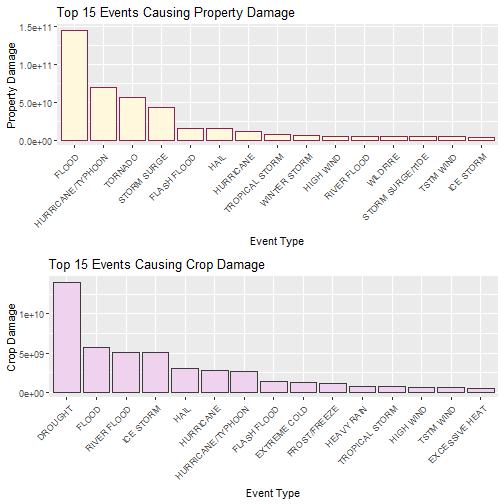
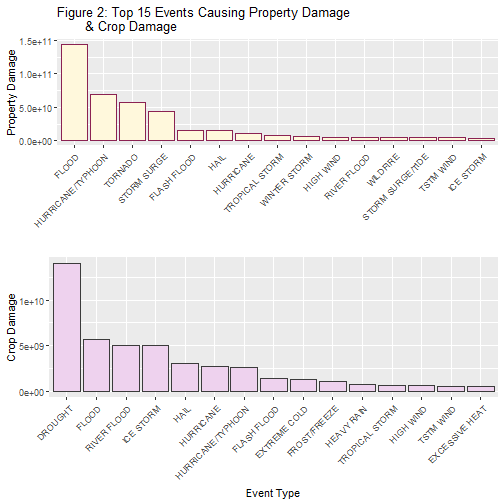
Add files via upload

diff --git a/Project 2/stormData.html b/Project 2/stormData.html
@@ -600,31 +600,23 @@ library(dplyr)
 ##     intersect, setdiff, setequal, union
 </code></pre>
 
-<pre><code class="r">plot(eventsPerYear,type=&quot;l&quot;,
-     main=&quot;Fig. 1: Total Events (per year)&quot;,
-     xlab=&quot;Year&quot;,
-     ylab=&quot;Events&quot;,
-     col=&quot;darkgreen&quot;)
-</code></pre>
-
[1 lines of base64/hex data omitted]
-
 <pre><code class="r">injuriesPlot &lt;- ggplot(data=injuries,aes(x=reorder(EVTYPE,-INJURIES),y=injuries$INJURIES)) + 
   geom_bar(stat=&quot;identity&quot;,fill=&quot;lightblue&quot;,color=&quot;darkblue&quot;) + 
   theme(axis.text.x=element_text(angle=45,hjust=1)) + 
-  labs(title=&quot;Top 15 Events Causing Injuries&quot;,y=&quot;Injuries&quot;,x=&quot;Event Type&quot;)
+  labs(title=&quot;Figure 1: Top 15 Events Causing Injuries 
+       &amp; Fatalities&quot;,y=&quot;Injuries&quot;,x=&quot; &quot;)
 </code></pre>
 
 <pre><code class="r">fatalitiesPlot &lt;- ggplot(data=fatalities,aes(x=reorder(EVTYPE, -FATALITIES),y=fatalities$FATALITIES)) + 
   geom_bar(stat=&quot;identity&quot;,fill=&quot;lightgreen&quot;,color=&quot;darkgreen&quot;) + 
   theme(axis.text.x=element_text(angle=45,hjust=1)) + 
-  labs(title=&quot;Top 15 Events Causing Fatalities&quot;,y=&quot;Fatalities&quot;,x=&quot;Event Type&quot;)
+  labs(y=&quot;Fatalities&quot;,x=&quot;Event Type&quot;)
 </code></pre>
 
 <pre><code class="r">populationHealth &lt;- grid.arrange(injuriesPlot,fatalitiesPlot)
 </code></pre>
 
[2 lines of base64/hex data omitted]
 
 <pre><code class="r">print(populationHealth)
 </code></pre>
@@ -639,20 +631,21 @@ library(dplyr)
   aes(x=reorder(EVTYPE,-propertyDamage$numDmgVal),y=propertyDamage$numDmgVal)) + 
   geom_bar(stat=&quot;identity&quot;,fill=&quot;cornsilk1&quot;,color=&quot;violetred4&quot;) + 
   theme(axis.text.x=element_text(angle=45,hjust=1)) + 
-  labs(title=&quot;Top 15 Events Causing Property Damage&quot;,y=&quot;Property Damage&quot;,x=&quot;Event Type&quot;)
+  labs(title=&quot;Figure 2: Top 15 Events Causing Property Damage 
+       &amp; Crop Damage&quot;,y=&quot;Property Damage&quot;,x=&quot;&quot;)
 </code></pre>
 
 <pre><code class="r">cropDamagePlot &lt;- ggplot(data=cropDamage,
   aes(x=reorder(EVTYPE,-cropDamage$numDmgVal),y=cropDamage$numDmgVal)) + 
   geom_bar(stat=&quot;identity&quot;,fill=&quot;thistle2&quot;,color=&quot;gray23&quot;) + 
   theme(axis.text.x=element_text(angle=45,hjust=1)) + 
-  labs(title=&quot;Top 15 Events Causing Crop Damage&quot;,y=&quot;Crop Damage&quot;,x=&quot;Event Type&quot;)
+  labs(y=&quot;Crop Damage&quot;,x=&quot;Event Type&quot;)
 </code></pre>
 
 <pre><code class="r">damages &lt;- grid.arrange(propertyDamagePlot,cropDamagePlot)
 </code></pre>
 
[2 lines of base64/hex data omitted]
 
 <pre><code class="r">print(damages)
 </code></pre>

diff --git a/Project 2/stormData.md b/Project 2/stormData.md
@@ -476,21 +476,11 @@ library(dplyr)
 ```
 
 ```r
-plot(eventsPerYear,type="l",
-     main="Fig. 1: Total Events (per year)",
-     xlab="Year",
-     ylab="Events",
-     col="darkgreen")
-```
-
-![plot of chunk eventsPerYear](figure/eventsPerYear-1.png)
-
-
-```r
 injuriesPlot <- ggplot(data=injuries,aes(x=reorder(EVTYPE,-INJURIES),y=injuries$INJURIES)) + 
   geom_bar(stat="identity",fill="lightblue",color="darkblue") + 
   theme(axis.text.x=element_text(angle=45,hjust=1)) + 
-  labs(title="Top 15 Events Causing Injuries",y="Injuries",x="Event Type")
+  labs(title="Figure 1: Top 15 Events Causing Injuries 
+       & Fatalities",y="Injuries",x=" ")
 ```
 
 
@@ -498,7 +488,7 @@ injuriesPlot <- ggplot(data=injuries,aes(x=reorder(EVTYPE,-INJURIES),y=injuries$
 fatalitiesPlot <- ggplot(data=fatalities,aes(x=reorder(EVTYPE, -FATALITIES),y=fatalities$FATALITIES)) + 
   geom_bar(stat="identity",fill="lightgreen",color="darkgreen") + 
   theme(axis.text.x=element_text(angle=45,hjust=1)) + 
-  labs(title="Top 15 Events Causing Fatalities",y="Fatalities",x="Event Type")
+  labs(y="Fatalities",x="Event Type")
 ```
 
 
@@ -525,7 +515,8 @@ propertyDamagePlot <- ggplot(data=propertyDamage,
   aes(x=reorder(EVTYPE,-propertyDamage$numDmgVal),y=propertyDamage$numDmgVal)) + 
   geom_bar(stat="identity",fill="cornsilk1",color="violetred4") + 
   theme(axis.text.x=element_text(angle=45,hjust=1)) + 
-  labs(title="Top 15 Events Causing Property Damage",y="Property Damage",x="Event Type")
+  labs(title="Figure 2: Top 15 Events Causing Property Damage 
+       & Crop Damage",y="Property Damage",x="")
 ```
 
 
@@ -534,7 +525,7 @@ cropDamagePlot <- ggplot(data=cropDamage,
   aes(x=reorder(EVTYPE,-cropDamage$numDmgVal),y=cropDamage$numDmgVal)) + 
   geom_bar(stat="identity",fill="thistle2",color="gray23") + 
   theme(axis.text.x=element_text(angle=45,hjust=1)) + 
-  labs(title="Top 15 Events Causing Crop Damage",y="Crop Damage",x="Event Type")
+  labs(y="Crop Damage",x="Event Type")
 ```
 
 ```r
